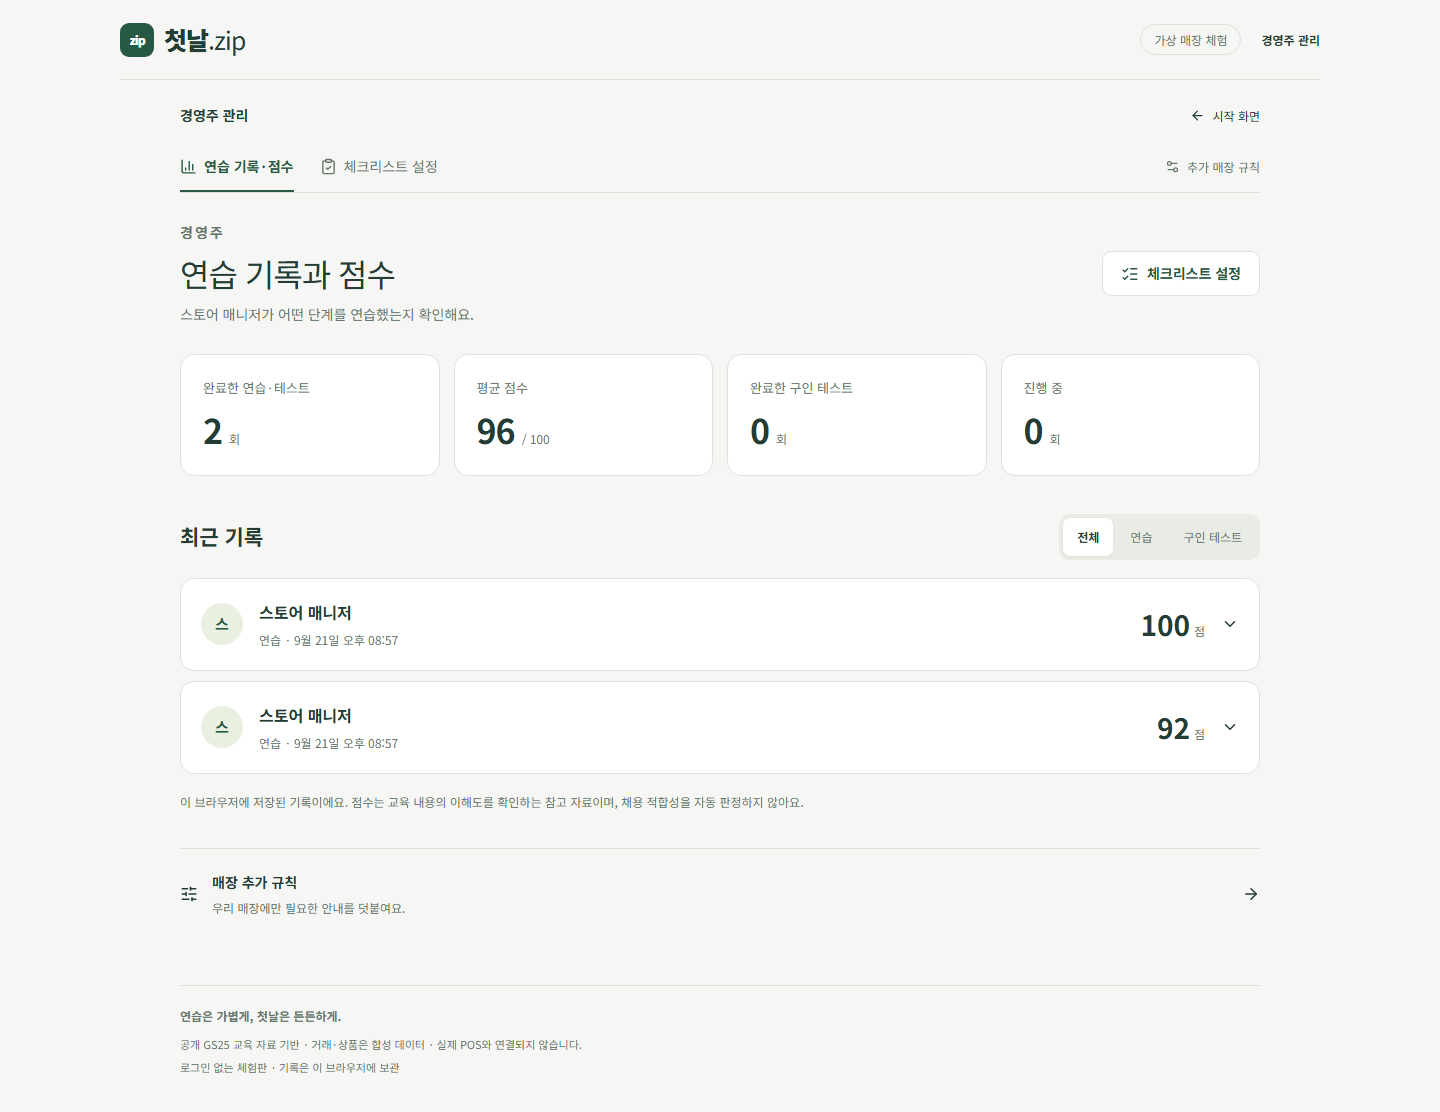
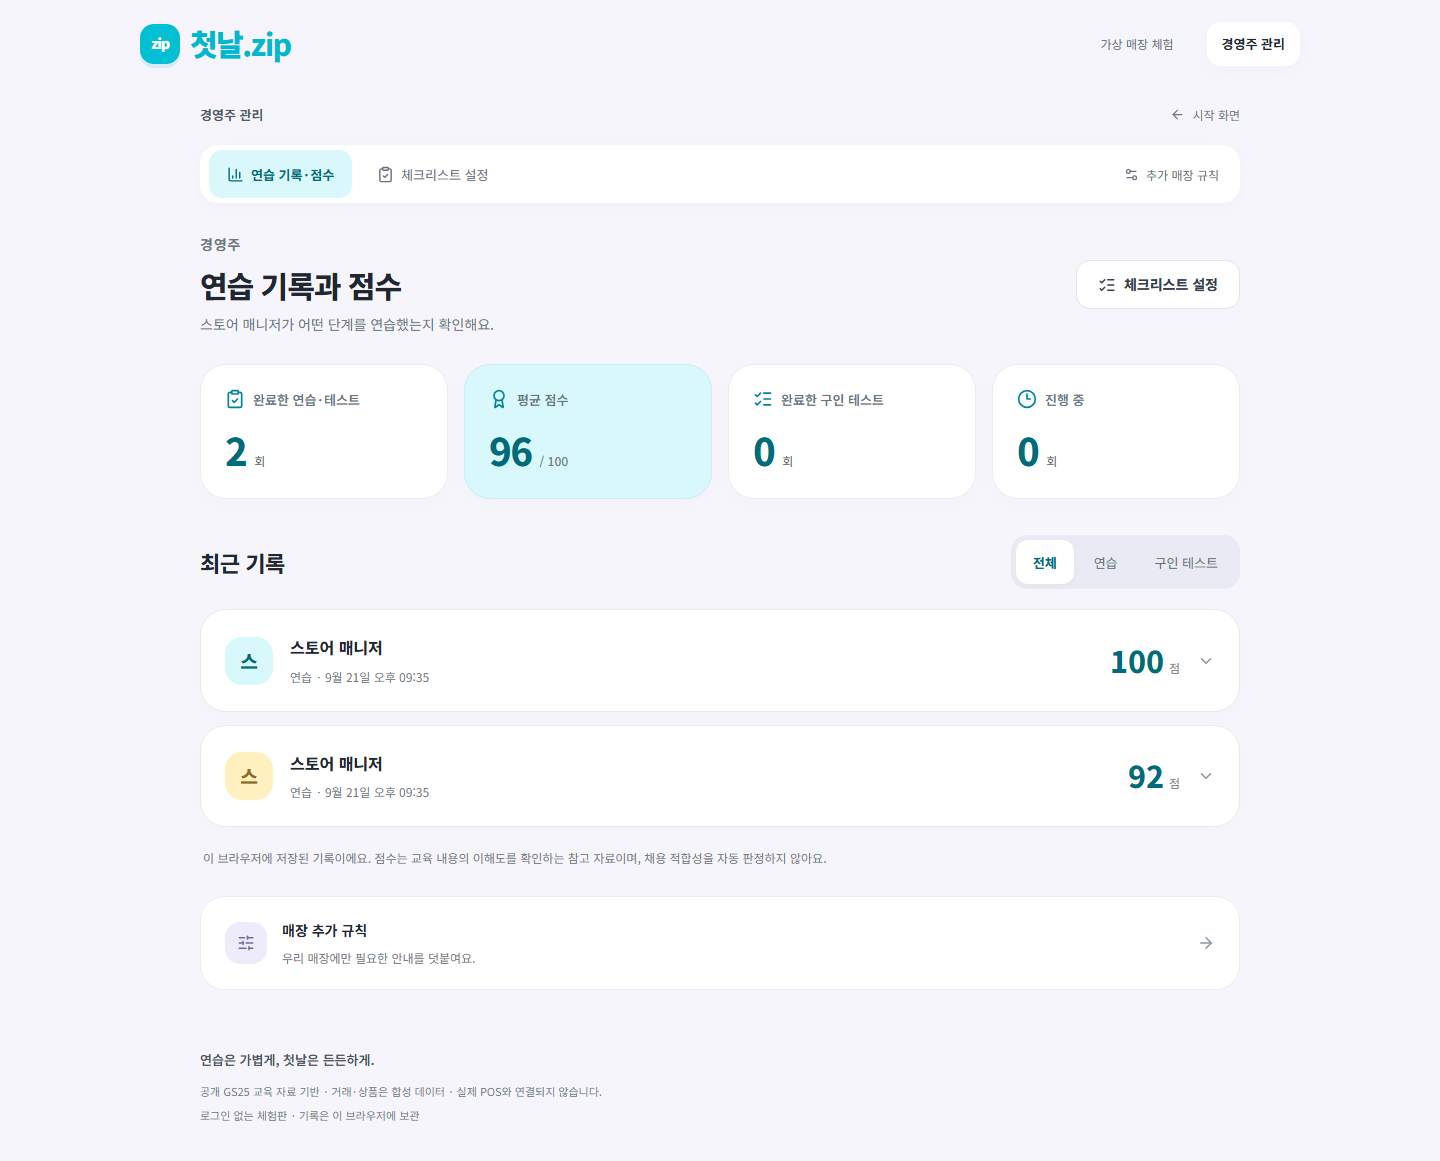
Record reference UI deployment and browser verification

diff --git a/progress.md b/progress.md
@@ -378,3 +378,14 @@
 - Security/limits: secret scan1079files, zero leaked paths, no tracked secret file; source whitespace passed; upstream font license retains one original trailing space. Timing command DateTime/DateTimeOffset mismatch corrected using two DateTimeOffset values. User-owned research audit JSON untouched. App remains browser-local; functional limits from Task17 unchanged. Live API not separately rerun in this UI-only local gate.
 - Timing: original runStartedAt2026-09-21T09:05:58.258Z; lastCheckpointAt:2026-09-21T21:33:14.0325309+09:00; measured active interval:12.7 minutes; cumulative activeWorkMinutes:126.16; excludedPauseMinutes retains historical at least1.29 plus unknown previous gaps; earlier unmeasured revision preparation excluded, parallel time not added twice.
 - Next exact checkbox: Task18 Step5 — publish source to verified origin main, deploy existing gs-hack project, inspect READY and deployed full journey/navigation. No local server remains running; unresolved application failures0.
+
+### Iteration31 — 2026-09-21T21:36:35.4760480+09:00 — Task18 deployed and verified
+
+- Published source abc0e2b9ef9a8467be82d266d5c7859a7cd25caf to verified https://github.com/Hee1-99/gs-hack main; git ls-remote confirmed exact SHA.
+- Deployment dpl_82hfgAmYYjUW12BNXrZNLE2t7FBR is READY, independently inspected. Production https://gs-hack-seven.vercel.app ; immutable https://gs-hack-n6yykevkj-hee1-99s-projects.vercel.app . Forced-demo build and existing live runtime env retained; secrets not uploaded.
+- Actual deployed browser gate: npx playwright test --config .vercel/remote.config.ts passed4/4 in37.8s (full journey and new navigation/card-clearance on desktop/mobile). Quiz92 then100, Q&A, checklist persistence and owner average96 verified. No separate Gemini smoke repeated for a UI-only revision; Task17 real API evidence remains separate.
+- Additional deployed rendering: home and completed checklist screenshots inspected at390x844; storeSans active, runtimeErrors empty, checklist done. Capture helper first used an incorrect exact multiline heading name and timed out once; corrected to the known visible heading text, then succeeded. Evidence reference-deployed-home-mobile.png and reference-deployed-checklist-mobile.png. App panel open request was queued by host, not claimed immediately visible.
+- Final local gate remains83 unit/integration tests, production build and46 E2E; source unchanged since that gate except EOF whitespace. Document51/51; staged secret scan1091files0leaks, env untracked. One upstream license trailing space preserved verbatim; source whitespace clean. User-owned crawl audit untouched/untracked.
+- Outcome: completed-before-duration-target. All current Task18 criteria and one bounded visual residual review complete; previous Tasks1–17 evidence preserved. No app blockers. Figma6:15 saved/inspected; optional export rate limit and existing interactive browser connector issue do not affect delivered app.
+- Timing: runStartedAt2026-09-21T09:05:58.258Z; lastCheckpointAt:2026-09-21T21:36:35.4760480+09:00; measured active interval:3.36 minutes; cumulative activeWorkMinutes:129.52; excludedPauseMinutes retains historical at least1.29 plus unknown earlier gaps. No artificial wait or parallel double count.
+- Next checkbox: none. Final action: push this evidence-only closure commit and verify remote SHA; no new application deployment required. No app server remains running.

diff --git a/task.md b/task.md
@@ -435,4 +435,4 @@ These are not part of this long-running P0 prompt. Do not automatically consume 
 - [x] **Step 2: Implement a graphic home, prominent practice/test entry points and accessible fixed mobile navigation.**
 - [x] **Step 3: Align simulator, Q&A, checklist and owner screens with the same visual language while retaining behavior and labels.**
 - [x] **Step 4: Run full tests, production build and desktop/mobile E2E; inspect rendered home, checklist, Q&A and active POS for overlap and readability.**
-- [ ] **Step 5: Publish and deploy the verified revision, check the production navigation and core journey, and record outcomes and measured timing.**
+- [x] **Step 5: Publish and deploy the verified revision, check the production navigation and core journey, and record outcomes and measured timing.**
